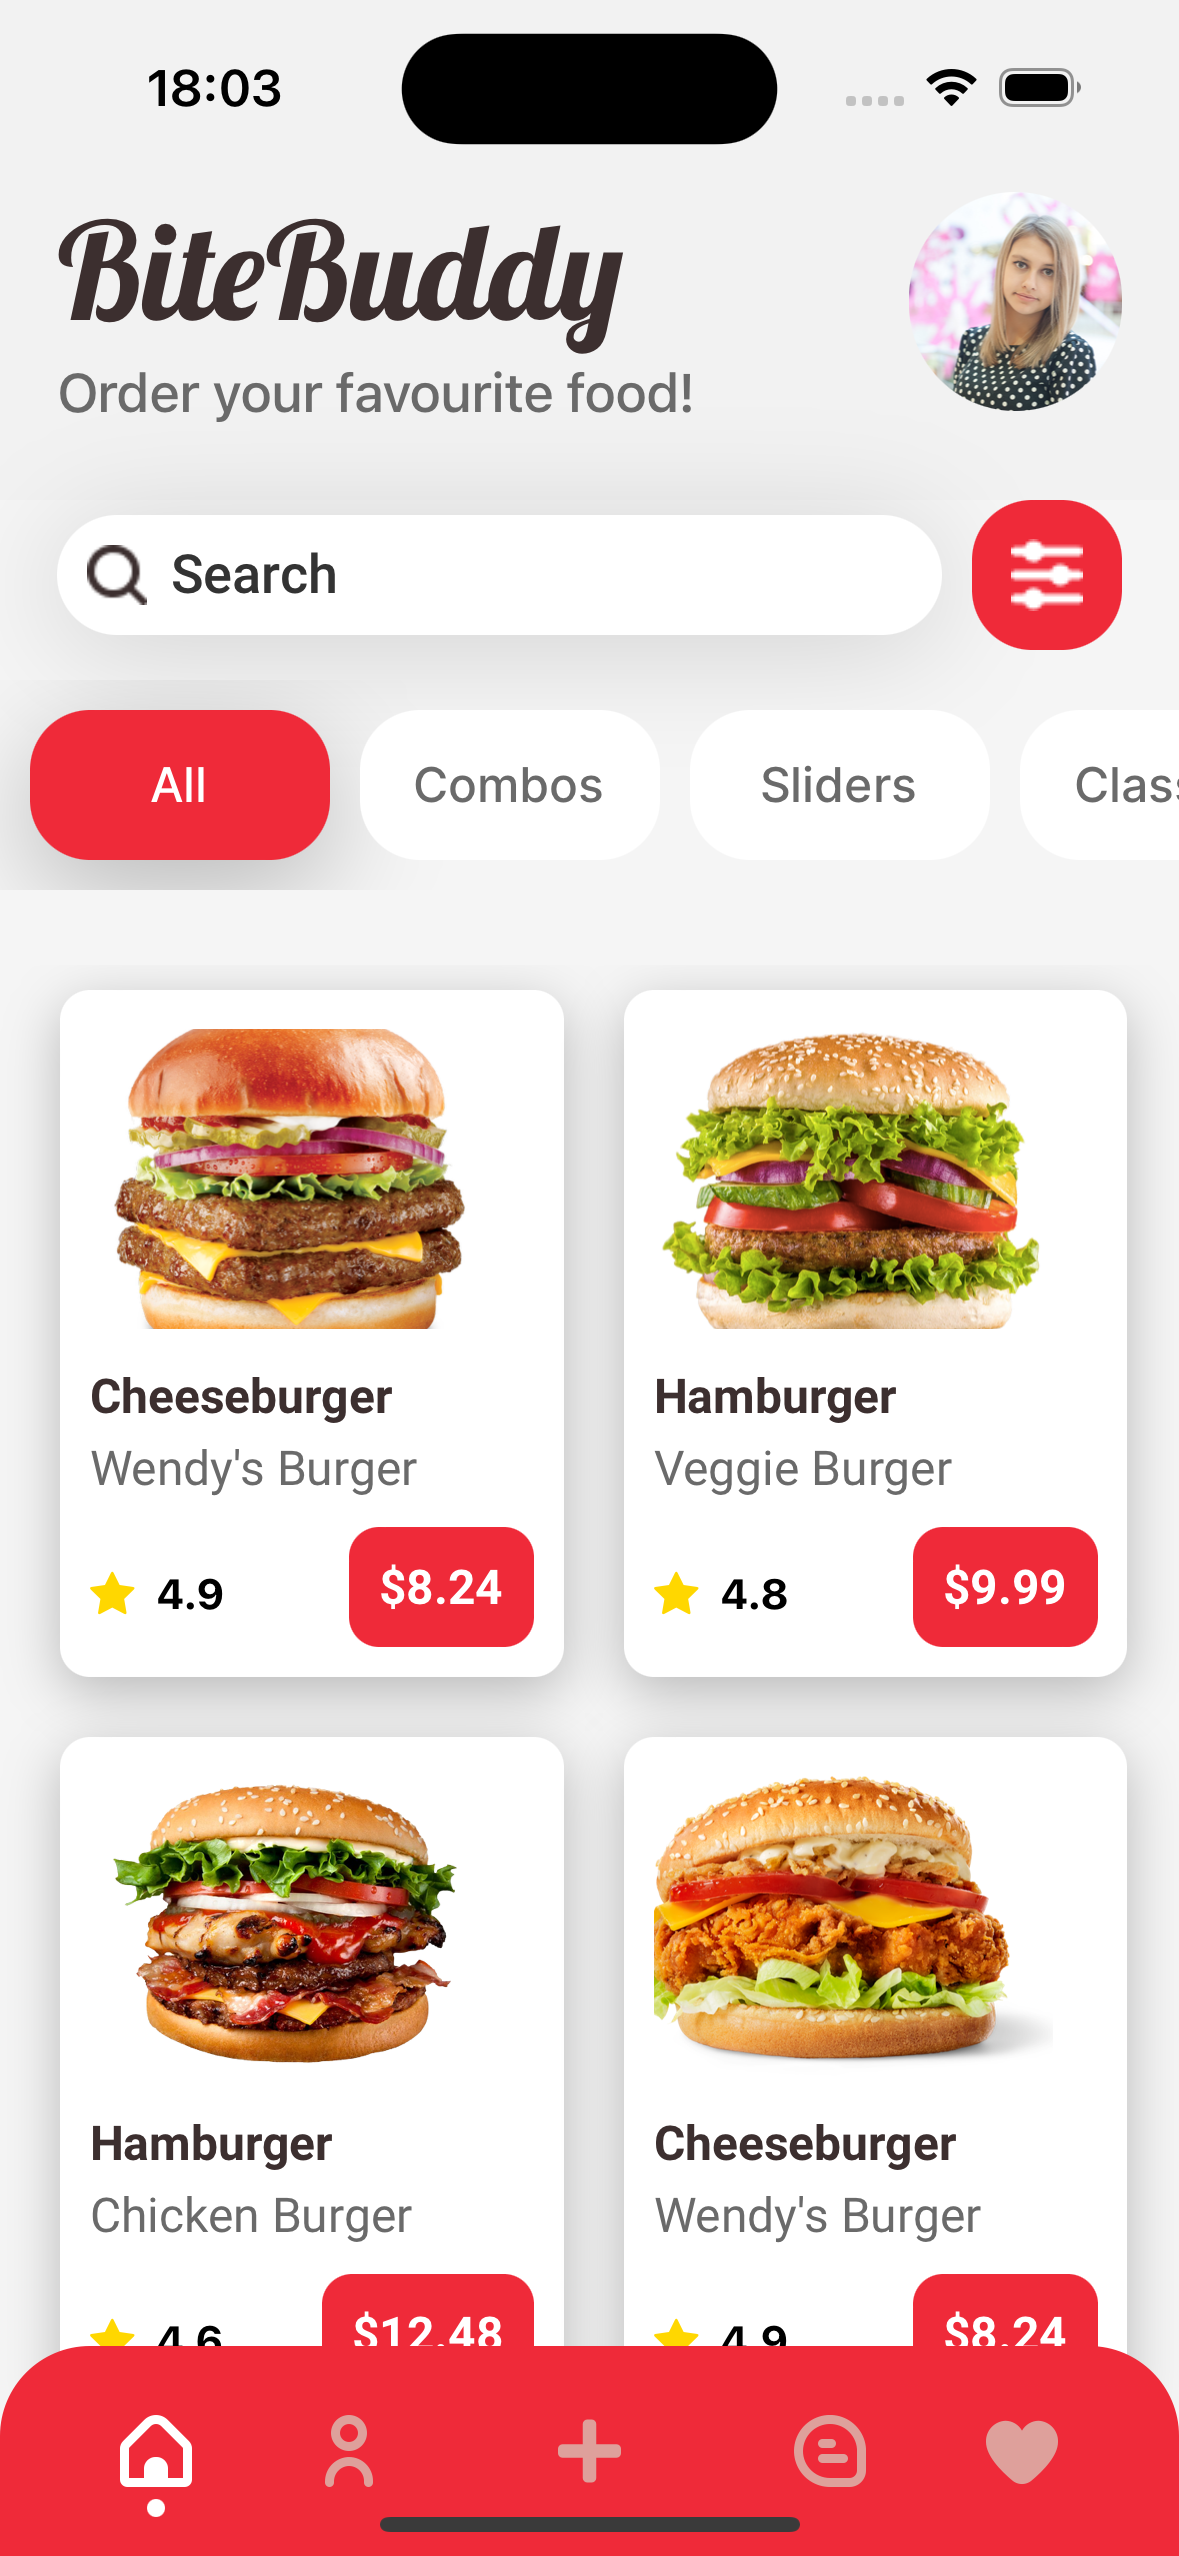
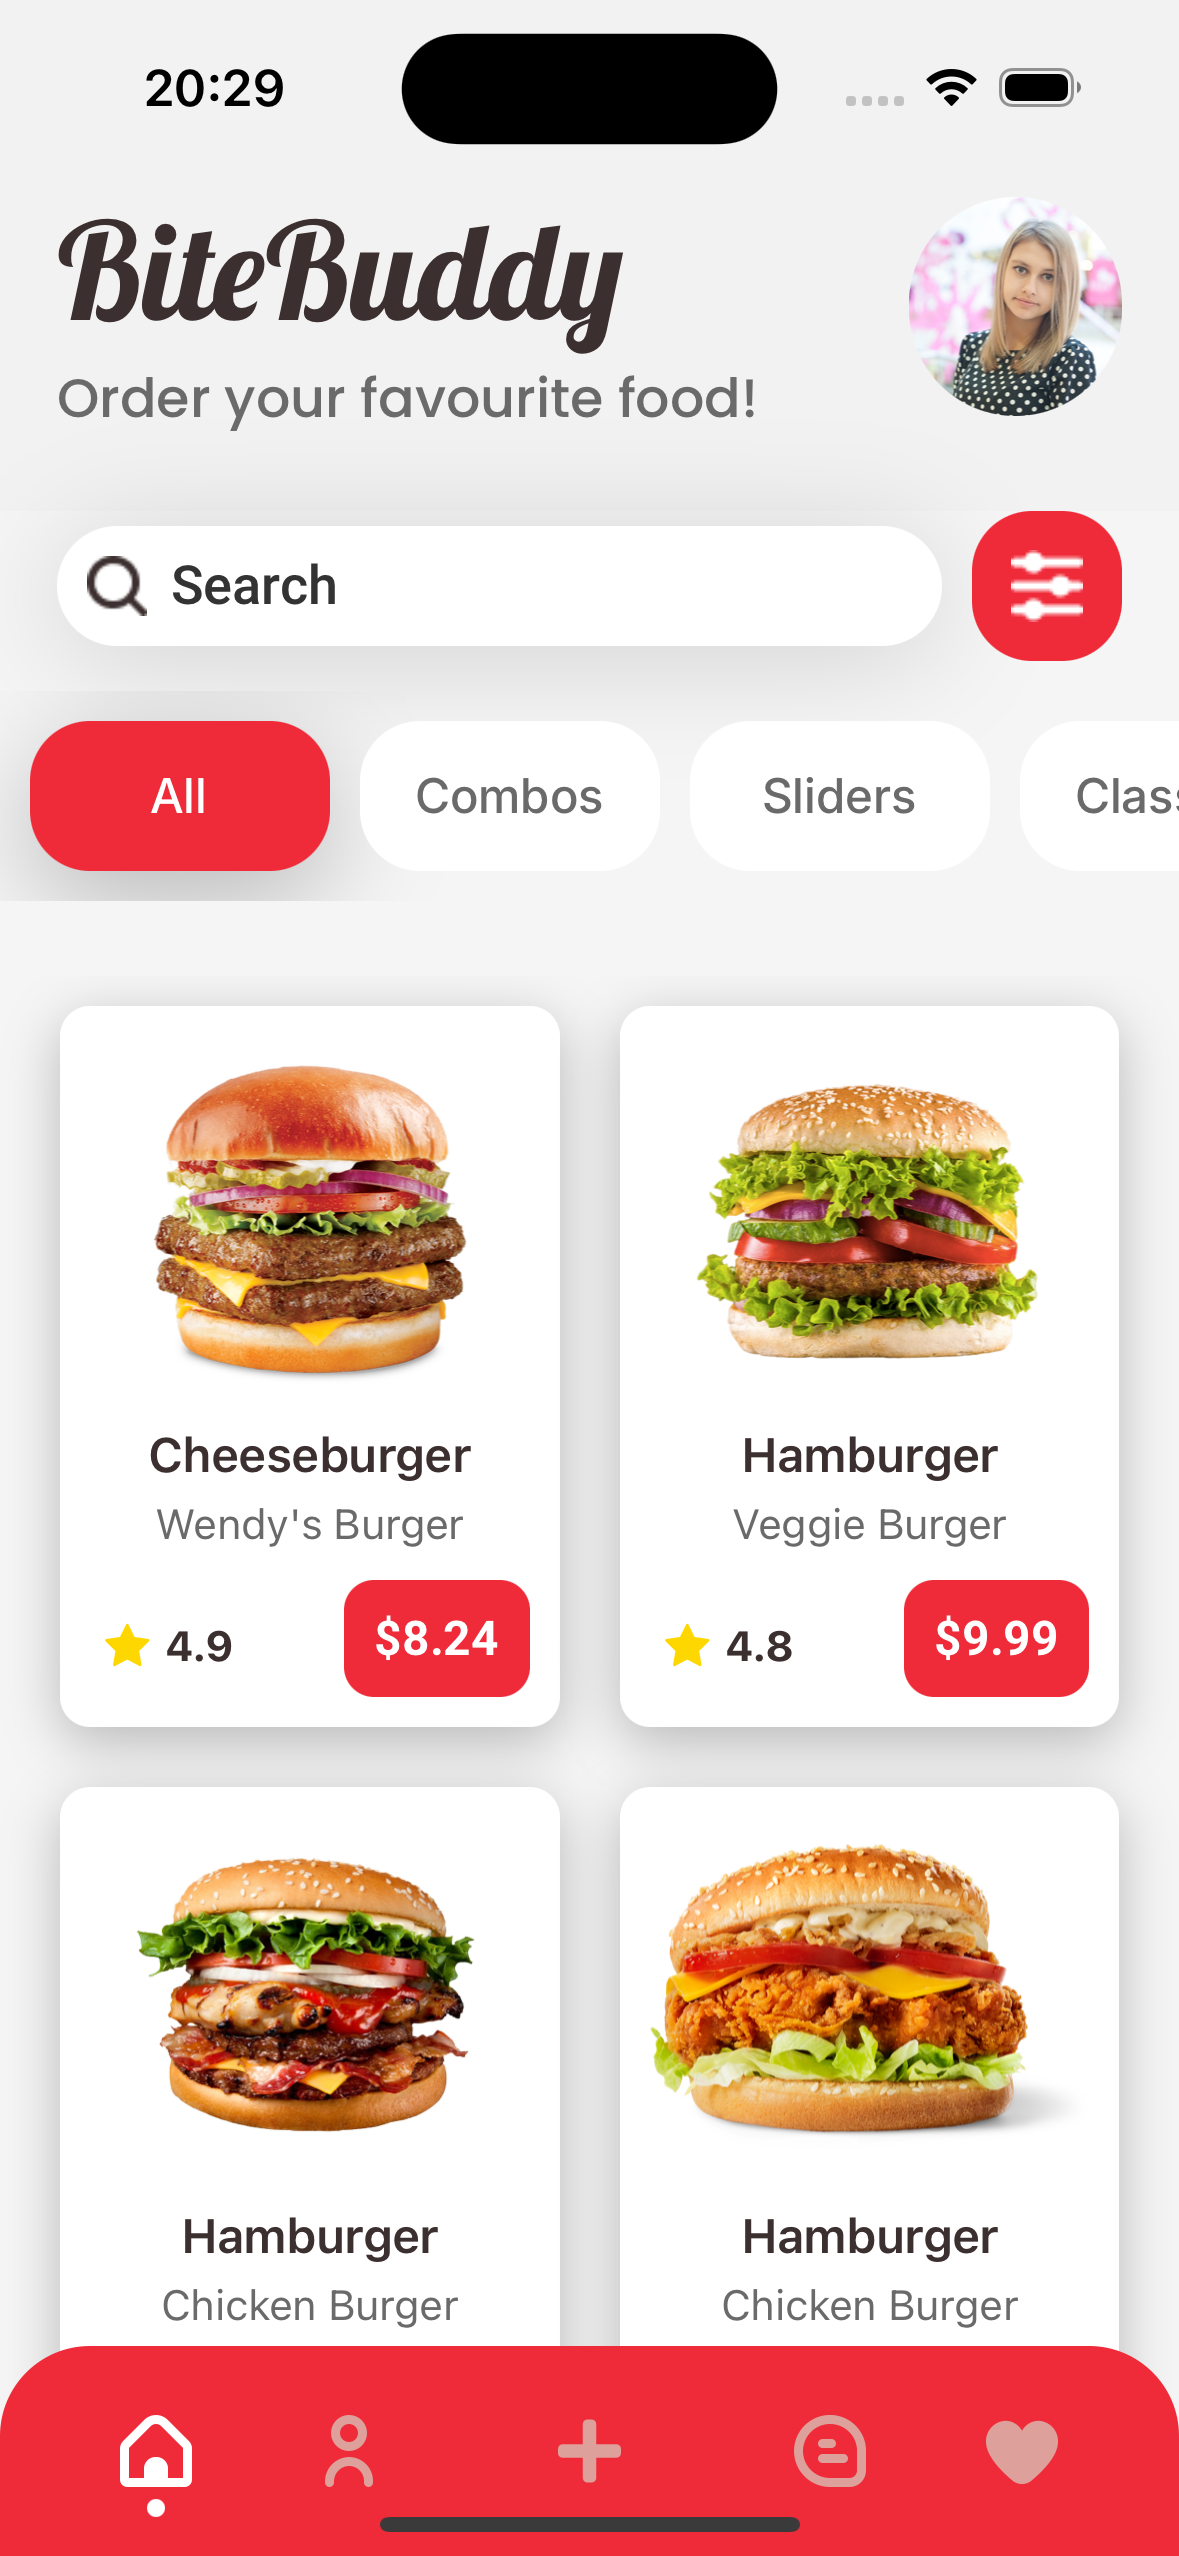
Fixed Homescreen

diff --git a/apps/BiteBuddy/src/app/components/(screens)/HomeScreen/Card/CardMain.tsx b/apps/BiteBuddy/src/app/components/(screens)/HomeScreen/Card/CardMain.tsx
@@ -6,12 +6,16 @@ import {
   FlatList,
   Image,
   TouchableOpacity,
+  Dimensions,
   Modal,
   SafeAreaView,
 } from 'react-native';
 import Icon from 'react-native-vector-icons/FontAwesome';
 import { Product } from '../../../../utility/data/products';
 import colors from '../../../../utility/styles/colors';
+
+const { width } = Dimensions.get('window');
+const cardWidth = (width - 60) / 2;
 
 interface CardMainProps {
   products: Product[];
@@ -21,25 +25,27 @@ const CardMain: React.FC<CardMainProps> = ({ products }) => {
   const [modalVisible, setModalVisible] = useState(false);
   const [selectedProduct, setSelectedProduct] = useState<Product | null>(null);
 
-  const onPressHandler = (product: Product) => {
-    console.log('Selected Product Image:', product.image);
+  const handleProductPress = (product: Product) => {
     setSelectedProduct(product);
     setModalVisible(true);
   };
 
   const renderProduct = ({ item }: { item: Product }) => (
-    <TouchableOpacity style={styles.card} onPress={() => onPressHandler(item)}>
+    <TouchableOpacity
+      style={styles.card}
+      onPress={() => handleProductPress(item)}
+    >
       <View style={styles.imageContainer}>
-        <Image source={item.image} style={styles.image} />
+        <Image source={item.image} style={styles.image} resizeMode="contain" />
       </View>
       <Text style={styles.title}>{item.name}</Text>
       <Text style={styles.secondName}>{item.secondName}</Text>
-      <View style={styles.cardFooterContainer}>
-        <View style={styles.starContainer}>
-          <Icon name="star" size={16} color="#FFD700" />
+      <View style={styles.footerWrapper}>
+        <View style={styles.ratingContainer}>
+          <Icon name="star" size={16} color={colors.starColor} />
           <Text style={styles.rating}>{item.rating}</Text>
         </View>
-        <View style={styles.containerPrice}>
+        <View style={styles.priceContainer}>
           <Text style={styles.price}>${item.price}</Text>
         </View>
       </View>
@@ -52,7 +58,7 @@ const CardMain: React.FC<CardMainProps> = ({ products }) => {
         data={products}
         renderItem={renderProduct}
         keyExtractor={(item) => item.id.toString()}
-        contentContainerStyle={styles.listContainer}
+        contentContainerStyle={[styles.listContainer]}
         numColumns={2}
       />
       <Modal
@@ -102,89 +108,75 @@ const styles = StyleSheet.create({
   listContainer: {
     paddingHorizontal: 10,
   },
-  noProductsContainer: {
-    flex: 1,
-    justifyContent: 'center',
-    alignItems: 'center',
+  singleItemListContainer: {
+    flexDirection: 'row',
+    justifyContent: 'flex-start',
   },
-  noProductsText: {
-    fontSize: 18,
-    color: '#888',
+  singleItemWrapper: {
+    justifyContent: 'flex-start',
   },
   card: {
     backgroundColor: 'white',
     margin: 10,
     padding: 10,
     borderRadius: 10,
-    width: '45%',
+    width: cardWidth,
     shadowColor: 'rgba(0, 0, 0, 0.25)',
-    shadowOffset: {
-      width: 0,
-      height: 5,
-    },
+    shadowOffset: { width: 0, height: 5 },
     shadowRadius: 9,
     elevation: 9,
     shadowOpacity: 1,
   },
+  imageContainer: {
+    width: '100%',
+    height: 120,
+    justifyContent: 'center',
+    alignItems: 'center',
+  },
+  imageContainer2: {
+    height: 300,
+    justifyContent: 'center',
+    alignItems: 'center',
+  },
   image: {
     width: '100%',
-    height: 100,
+    height: '100%',
     borderRadius: 10,
-    alignSelf: 'center',
-    justifyContent: 'center',
   },
   title: {
     marginTop: 10,
     fontWeight: '600',
-    fontFamily: 'Roboto-Bold',
     fontSize: 16,
-    color: '#3c2f2f',
-    textAlign: 'left',
+    color: colors.textPrimary,
+    textAlign: 'center',
+  },
+  secondName: {
+    fontSize: 14,
+    color: colors.textHelper,
+    textAlign: 'center',
+    marginTop: 5,
+  },
+  ratingContainer: {
+    flexDirection: 'row',
+    justifyContent: 'center',
+    alignItems: 'center',
+    marginTop: 5,
+    marginLeft: 5,
   },
   rating: {
     fontSize: 14,
     fontWeight: 'bold',
-    marginLeft: 7,
-  },
-  secondName: {
-    fontSize: 16,
-    marginTop: 5,
-    color: '#6a6a6a',
-    fontFamily: 'Roboto-Regular',
-  },
-  starContainer: {
-    flexDirection: 'row',
-    alignItems: 'center',
-    marginTop: 5,
-    width: '50%',
-    height: 20,
-  },
-  cardFooterContainer: {
-    flexDirection: 'row',
-    justifyContent: 'space-between',
-    alignItems: 'center',
-    marginTop: 10,
+    marginLeft: 5,
+    color: colors.textPrimary,
   },
   price: {
     fontSize: 16,
-    color: '#FFF',
-    backgroundColor: colors.primary,
-    lineHeight: 30,
+    color: colors.textWhite,
     fontWeight: '600',
     fontFamily: 'Roboto-Bold',
-    textAlign: 'left',
-    paddingHorizontal: 5,
-  },
-  containerPrice: {
-    backgroundColor: colors.primary,
     padding: 5,
     borderRadius: 10,
-  },
-  imageContainer: {
-    width: '90%',
-    height: 106,
-    justifyContent: 'center',
-    alignItems: 'center',
+    textAlign: 'center',
   },
   modalContainer: {
     flex: 1,
@@ -196,11 +188,11 @@ const styles = StyleSheet.create({
     width: '100%',
     height: '100%',
     padding: 20,
-    backgroundColor: '#fff',
+    backgroundColor: colors.mainBackground,
     borderRadius: 10,
   },
   image2: {
-    width: '100%',
+    width: '80%',
     height: 300,
     borderRadius: 10,
     marginBottom: 20,
@@ -224,12 +216,6 @@ const styles = StyleSheet.create({
     fontWeight: 'bold',
     borderRadius: 10,
   },
-  imageContainer2: {
-    width: '100%',
-    height: 300,
-    justifyContent: 'center',
-    alignItems: 'center',
-  },
   navigationBar: {
     flexDirection: 'row',
     justifyContent: 'flex-start',
@@ -242,9 +228,20 @@ const styles = StyleSheet.create({
     width: 40,
     height: 40,
     borderRadius: 20,
-    backgroundColor: '#f0f0f0',
+    backgroundColor: colors.backButtonBacground,
     justifyContent: 'center',
     alignItems: 'center',
     marginLeft: -5,
+  },
+  footerWrapper: {
+    flexDirection: 'row',
+    justifyContent: 'space-between',
+    alignItems: 'center',
+    marginTop: 10,
+  },
+  priceContainer: {
+    backgroundColor: colors.primary,
+    padding: 5,
+    borderRadius: 10,
   },
 });

diff --git a/apps/BiteBuddy/src/app/utility/data/products.ts b/apps/BiteBuddy/src/app/utility/data/products.ts
@@ -25,7 +25,7 @@ const Products: Product[] = [
     secondName: `Wendy's Burger`,
     rating: 4.9,
     price: 8.24,
-    description: `The Cheeseburger Wendy's Burger is a classic fast food burger that packs a punch of flavor in every bite.`,
+    description: `The Cheeseburger Wendy's Burger is a classic fast food burger that packs a punch of flavor in every bite. Made with a juicy beef patty cooked to perfection, it's topped with melted American cheese, crispy lettuce, ripe tomato, and crunchy pickles.`,
     image: product1,
   },
   {
@@ -35,7 +35,7 @@ const Products: Product[] = [
     secondName: 'Veggie Burger',
     rating: 4.8,
     price: 9.99,
-    description: `Enjoy our delicious Hamburger Veggie Burger, made with a savory blend of fresh vegetables and herbs.`,
+    description: `Enjoy our delicious Hamburger Veggie Burger, made with a savory blend of fresh vegetables and herbs, topped with crisp lettuce, juicy tomatoes, and tangy pickles, all served on a soft, toasted bun. `,
     image: product2,
   },
   {
@@ -45,17 +45,17 @@ const Products: Product[] = [
     secondName: 'Chicken Burger',
     rating: 4.6,
     price: 12.48,
-    description: `Our chicken burger is a delicious and healthier alternative to traditional beef burgers.`,
+    description: `Our chicken burger is a delicious and healthier alternative to traditional beef burgers, perfect for those looking for a lighter meal option. Try it today and experience the mouth-watering flavors of our Hamburger Chicken Burger!`,
     image: product3,
   },
   {
     id: 4,
     category: 4,
-    name: 'Cheeseburger',
-    secondName: `Wendy's Burger`,
+    name: 'Hamburger',
+    secondName: `Chicken Burger`,
     rating: 4.9,
     price: 8.24,
-    description: `The Cheeseburger Wendy's Burger is a classic fast food burger that packs a punch of flavor in every bite.`,
+    description: `Indulge in our crispy and savory Fried Chicken Burger, made with a juicy chicken patty, hand-breaded and deep-fried to perfection, served on a warm bun with lettuce, tomato, and a creamy sauce.`,
     image: product4,
   }
 ];

diff --git a/apps/BiteBuddy/src/app/(tabs)/HomeScreen.tsx b/apps/BiteBuddy/src/app/(tabs)/HomeScreen.tsx
@@ -1,18 +1,19 @@
 import React, { useState } from 'react';
-import { SafeAreaView, View, StyleSheet } from 'react-native';
+import { SafeAreaView, View, StyleSheet, Text } from 'react-native';
 import Header from '../components/(screens)/HomeScreen/Header/Header';
 import SearchMain from '../components/(screens)/HomeScreen/Search/SearchMain';
 import OptionsList from '../components/(screens)/HomeScreen/FlatList/OptionsList';
 import CardMain from '../components/(screens)/HomeScreen/Card/CardMain';
-import Products from '../utility/data/products'; // Adjust the path to your Products data
+import Products from '../utility/data/products';
 
 function HomeScreen() {
   const [filteredProducts, setFilteredProducts] = useState(Products);
   const [searchText, setSearchText] = useState('');
 
   const handleCategorySelect = (category?: number) => {
+    setSearchText('');
     const filtered = Products.filter((product) =>
-      category ? product.category === category : true
+      category !== undefined ? product.category === category : true
     );
     setFilteredProducts(filtered);
   };
@@ -31,10 +32,14 @@ function HomeScreen() {
         <Header />
       </View>
       <View style={styles.searchContainer}>
-        <SearchMain onSearch={handleSearch} />
+        <SearchMain searchText={searchText} onSearch={handleSearch} />
         <OptionsList onSelect={handleCategorySelect} />
         <View style={styles.content}>
-          <CardMain products={filteredProducts} />
+          {filteredProducts.length > 0 ? (
+            <CardMain products={filteredProducts} />
+          ) : (
+            <Text style={styles.noProductsText}>No products found</Text>
+          )}
         </View>
       </View>
     </SafeAreaView>
@@ -56,5 +61,11 @@ const styles = StyleSheet.create({
   content: {
     flex: 1,
     marginTop: 15,
+    justifyContent: 'center',
+    alignItems: 'center',
+  },
+  noProductsText: {
+    fontSize: 18,
+    color: '#888',
   },
 });

diff --git a/apps/BiteBuddy/src/app/components/(screens)/HomeScreen/Search/SearchMain.tsx b/apps/BiteBuddy/src/app/components/(screens)/HomeScreen/Search/SearchMain.tsx
@@ -1,22 +1,16 @@
 import { StyleSheet, View } from 'react-native';
-import React, { useState } from 'react';
+import React from 'react';
 import SearchInput from './SearchInput';
 
-const SearchMain: React.FC<{ onSearch: (text: string) => void }> = ({
-  onSearch,
-}) => {
-  const [searchText, setSearchText] = useState('');
-
-  const handleSearchChange = (text: string) => {
-    setSearchText(text);
-    onSearch(text);
-  };
-
+const SearchMain: React.FC<{
+  searchText: string;
+  onSearch: (text: string) => void;
+}> = ({ searchText, onSearch }) => {
   return (
     <View style={styles.container}>
       <SearchInput
         value={searchText}
-        onChangeText={handleSearchChange}
+        onChangeText={onSearch}
         placeholder="Search"
         onSettingsPress={() => console.log('Settings pressed')}
       />

diff --git a/apps/BiteBuddy/src/app/utility/styles/colors.ts b/apps/BiteBuddy/src/app/utility/styles/colors.ts
@@ -2,7 +2,12 @@ const colors = {
     primary: '#EF2A39',
 
     secondary: '#7B435B',
-
+    mainBackground: '#F5F5F5',
+    backButtonBacground: '#b0aea9',
+    textPrimary: '#3c2f2f',
+    textWhite: '#fff',
+    textHelper: '#6a6a6a',
+    starColor: '#FFD700',
   }
 
 
